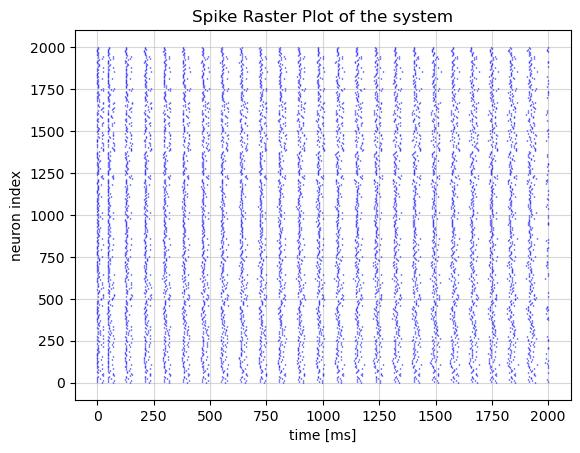
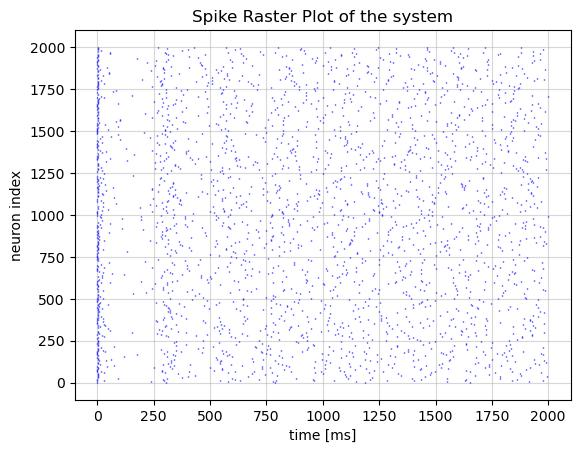
fix: raster plot

Changed region(s): [[0.1552, 0.0927, 0.9621, 0.8653]]

diff --git a/preliminary/izhikevich_rnn.py b/preliminary/izhikevich_rnn.py
@@ -100,8 +100,8 @@ class Izhikevich:
         Randomly choose a neuron and return its voltage trace.
         And return its spike times.
         """
-        n_neurons = 1
-        random_neuron = np.random.randint(0, self._N, size=(n_neurons, ))
+        n_neurons = 100
+        # random_neuron = np.random.randint(0, self._N, size=(n_neurons, ))
         voltage_trace = np.zeros(shape=(self.time.size, n_neurons), dtype=float)
         
         for i in tqdm(range(len(self.time))):
@@ -116,9 +116,9 @@ class Izhikevich:
             self.v[spike_mask] = self.v_reset
             self.u[spike_mask] += self.d
             self.h[spike_mask] += 1 / (self.tau_d * self.tau_r)
-            # self.s = self._w @ self.r
+            self.s = self._w @ self.r
             # JD = np.sum(self._w[:, spike_mask], axis=1)
-            self.s = np.random.rand(self._N, 1) * self._G * self._p
+            # self.s = np.random.rand(self._N, 1) * self._G * self._p
 
             if True in spike_mask:
                 spiking_neurons = np.where(spike_mask)[0]
@@ -126,7 +126,8 @@ class Izhikevich:
                     self.tspike[neuron].append(self.time[i])
 
             # record
-            voltage_trace[i] = self.v[random_neuron, 0]
+            voltage_trace[i] = self.v[0:100, 0]
+
         
         return voltage_trace
 
